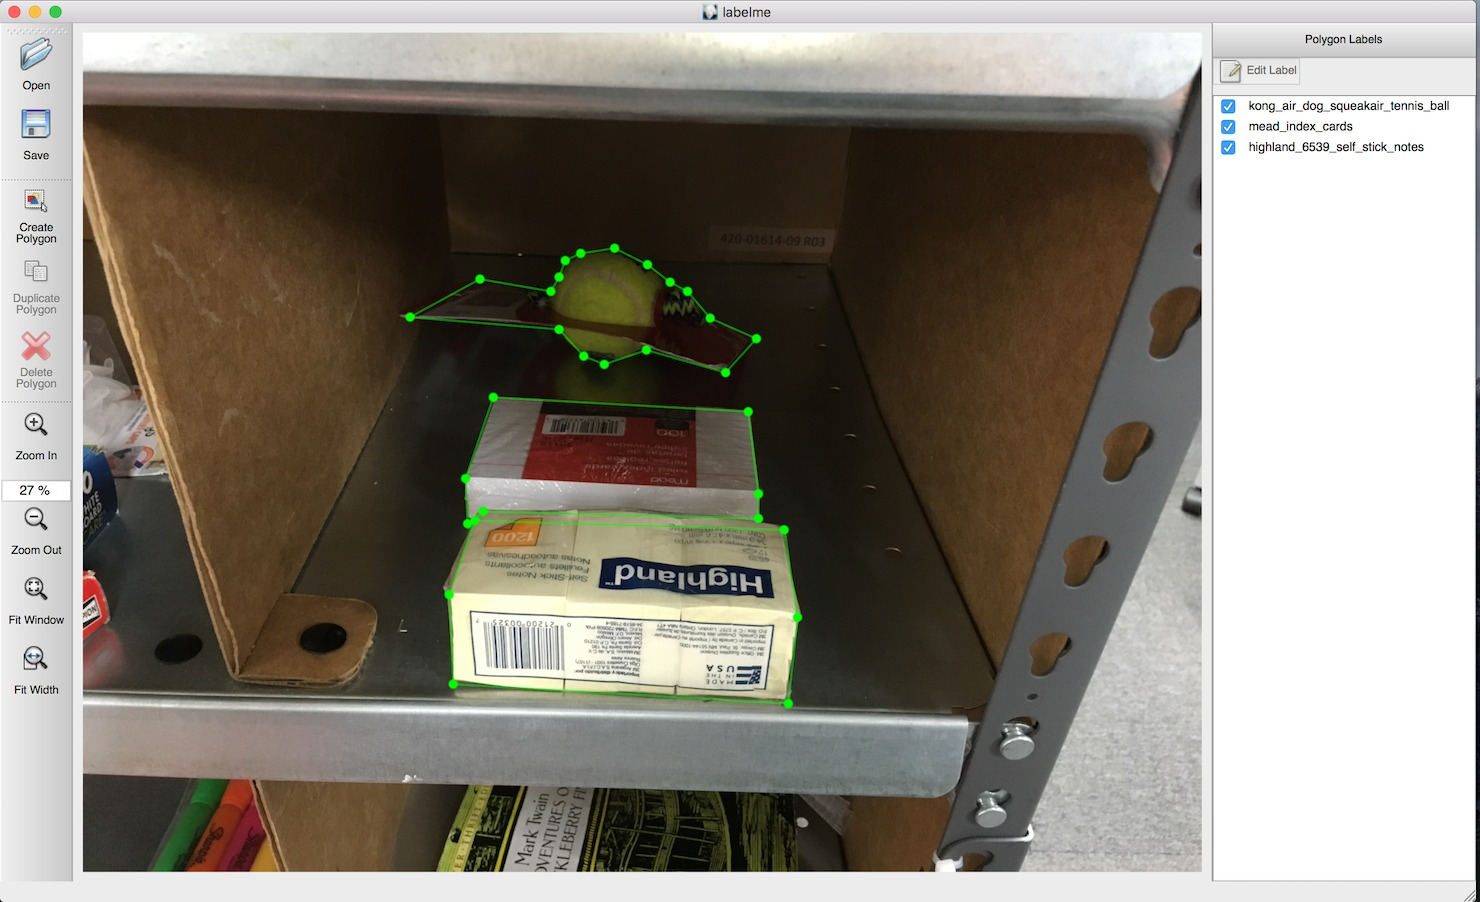
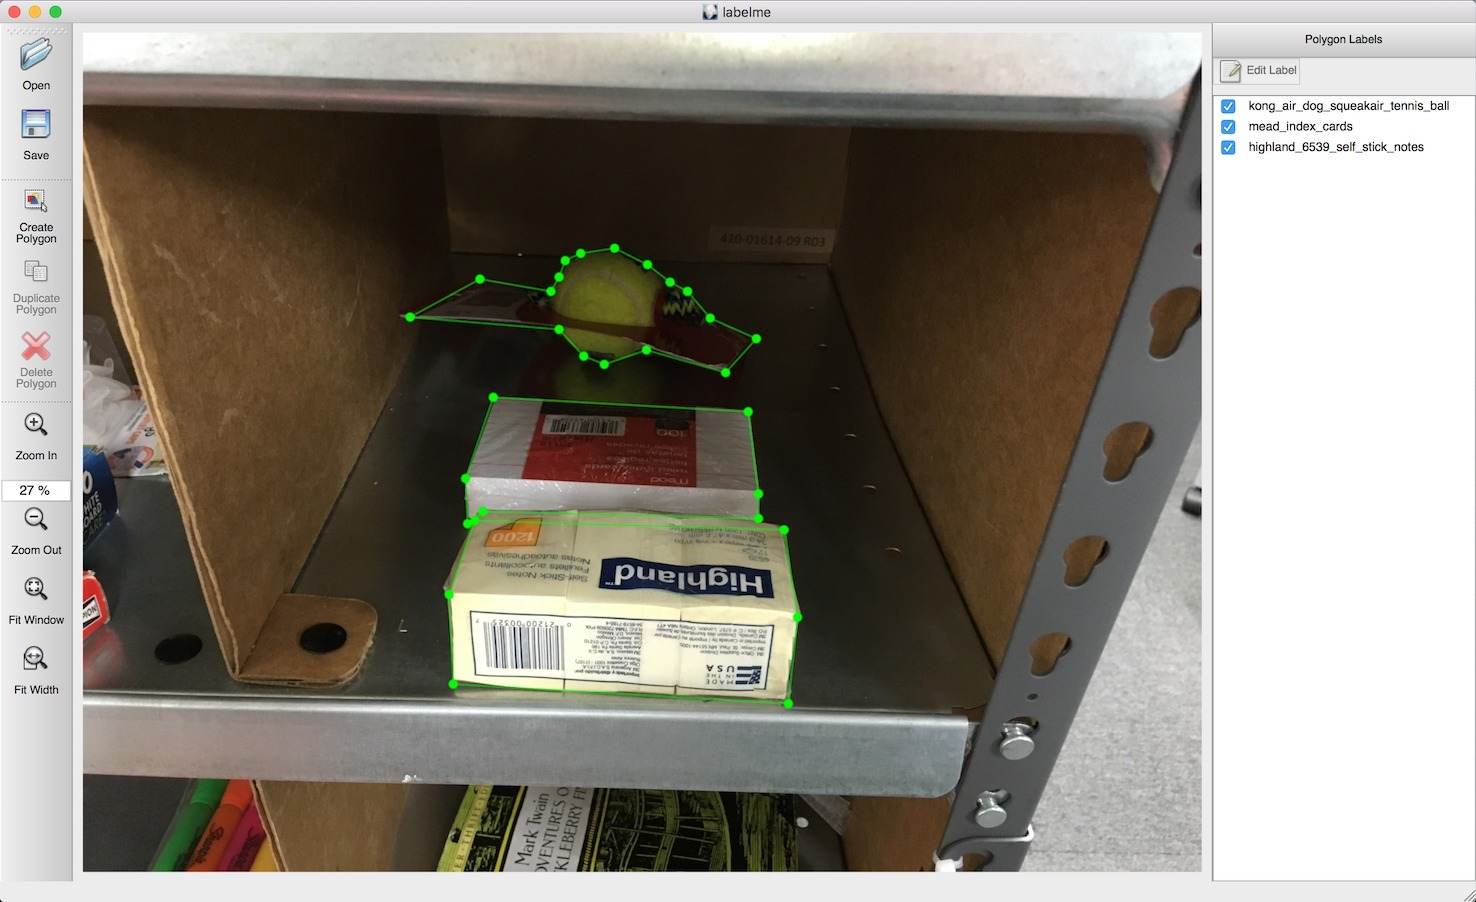
Update README.md

diff --git a/README.md b/README.md
@@ -90,7 +90,7 @@ labelme tutorial/apc2016_obj3.jpg --nodata  # Not include image data but relativ
 labelme tutorial/apc2016_obj3.jpg -O tutorial/apc2016_obj3.json  # Close window after the save
 ```
 
-<img src=".readme/apc2016_obj3_screenshot.jpg" width="50%" />
+<img src=".readme/apc2016_obj3_annotate_label.jpg" width="44%" /> <img src=".readme/apc2016_obj3_screenshot.jpg" width="50%" />
 
 The annotations are saved as a [JSON](http://www.json.org/) file. The
 file includes the image itself.
